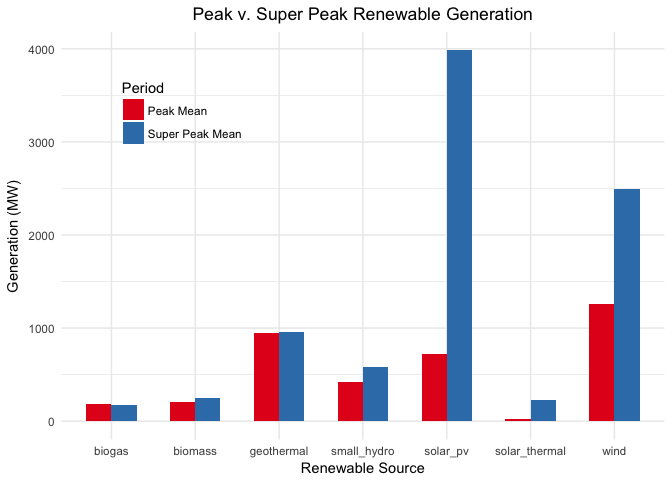
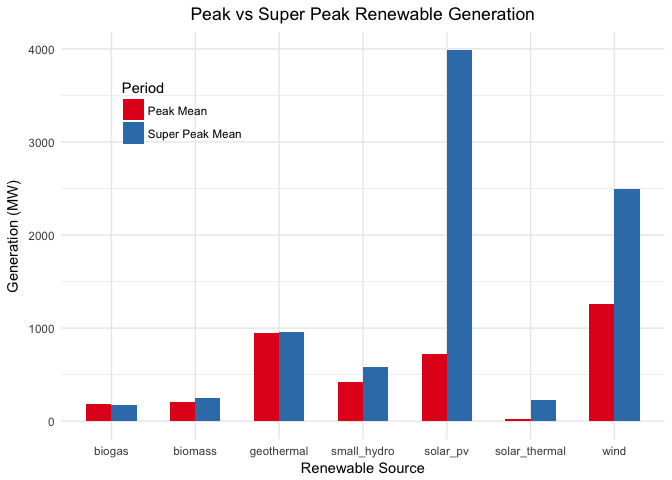
fin

Changed region(s): [[0.2812, 0.0, 0.8125, 0.0625]]

diff --git a/assignment/final-project.md b/assignment/final-project.md
@@ -326,7 +326,7 @@ final %>%
   gather(Time, Mean, -Renewable) %>%
   ggplot(aes(x = Renewable, y = Mean, fill = Time)) + geom_bar(stat="identity", position = "dodge", width = 0.6) +
   scale_fill_brewer(palette="Set1") + guides(fill=guide_legend("Period")) + 
-  labs(title = "Peak v. Super Peak Renewable Generation",
+  labs(title = "Peak vs Super Peak Renewable Generation",
     x = "Renewable Source", 
     y = "Generation (MW)") + 
     theme(legend.position = c(0.2, 0.8))
